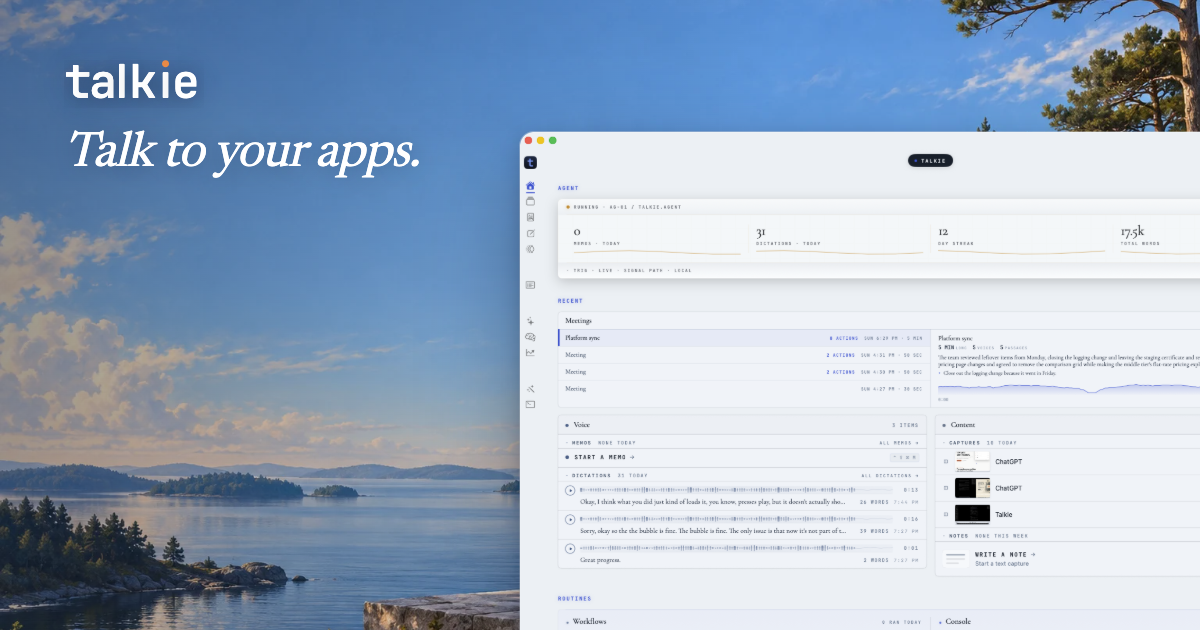
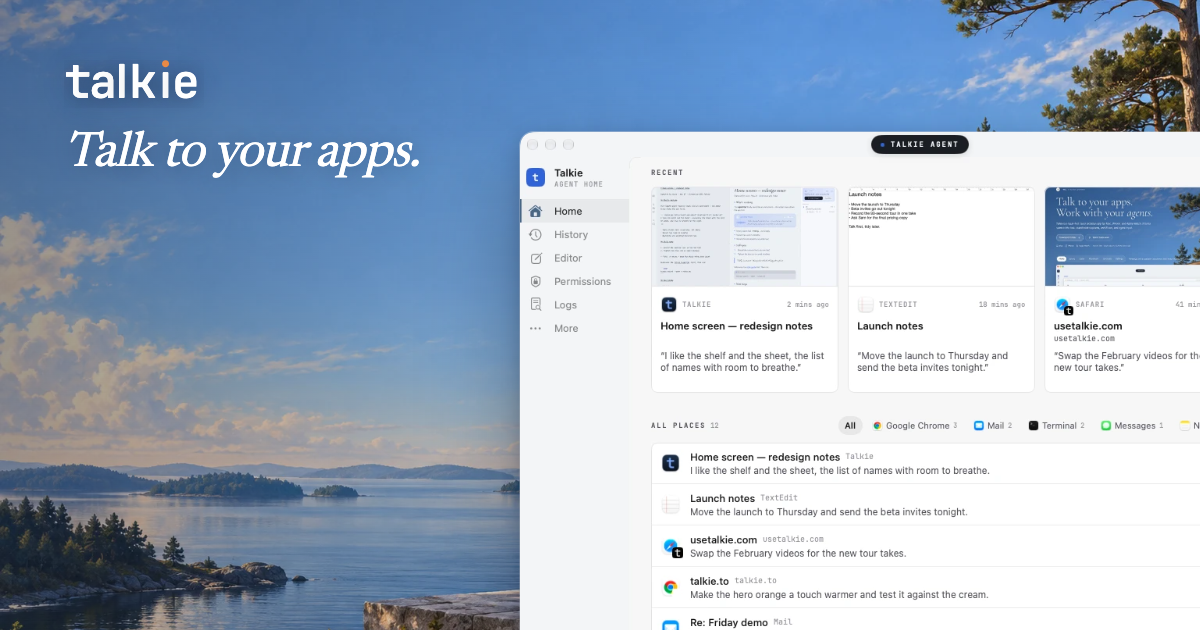
🍱 Home share card: staged Talkie Agent Home capture

diff --git a/scripts/generate-og-image.js b/scripts/generate-og-image.js
@@ -11,7 +11,7 @@ const asset = (file, mime) => `data:${mime};base64,${fs.readFileSync(path.join(r
 const font = (name, file) => `@font-face{font-family:${name};src:url('${asset(`fonts/${file}`, 'font/ttf')}')}`;
 const img = file => asset(file, 'image/webp');
 const cards = [
-  { slug: 'home', line: 'Talk to your apps.', scene: img('backgrounds/talkie-listening-pavilion.webp'), shot: img('screenshots/mac/current/talkie-home-light.webp'), alt: 'Talkie for Mac floating over a lakeside pavilion at golden hour' },
+  { slug: 'home', line: 'Talk to your apps.', scene: img('backgrounds/talkie-listening-pavilion.webp'), shot: img('screenshots/mac/current/talkie-agent-home-light.webp'), alt: 'Talkie Agent Home, listing recent places over a lakeside pavilion at golden hour' },
   { slug: 'mac', line: 'Speak. It’s written.', scene: img('backgrounds/talkie-listening-pavilion-night.webp'), shot: img('screenshots/mac/current/talkie-editor-light.webp'), alt: 'The Talkie for Mac editor over a lakeside pavilion at night' },
   { slug: 'mobile', line: 'A thought, a tap.', scene: img('backgrounds/talkie-coast.webp'), shot: img('screenshots/mobile/iphone-recording-current.webp'), alt: 'Talkie for iPhone recording, over a sunlit coast' },
 ];
